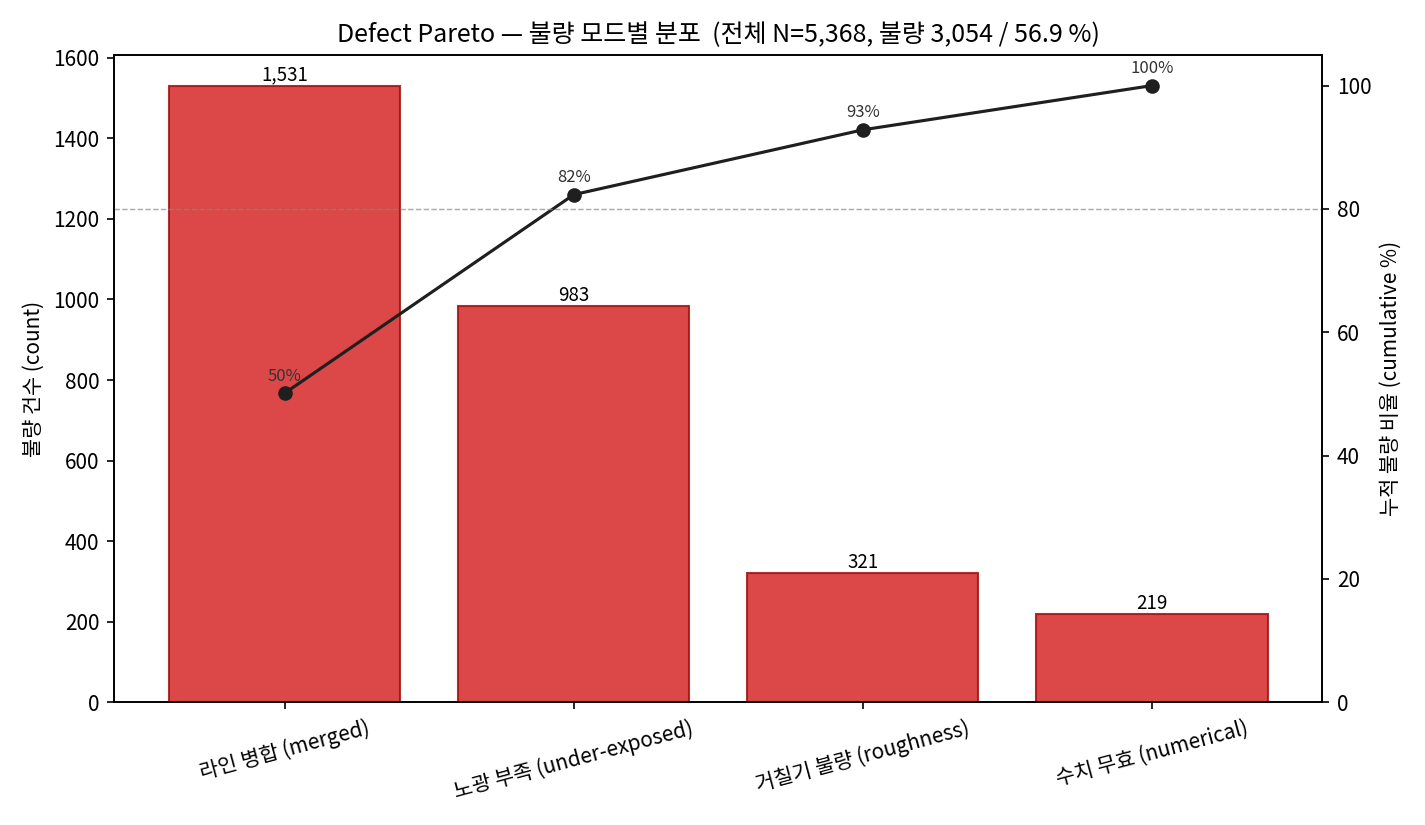
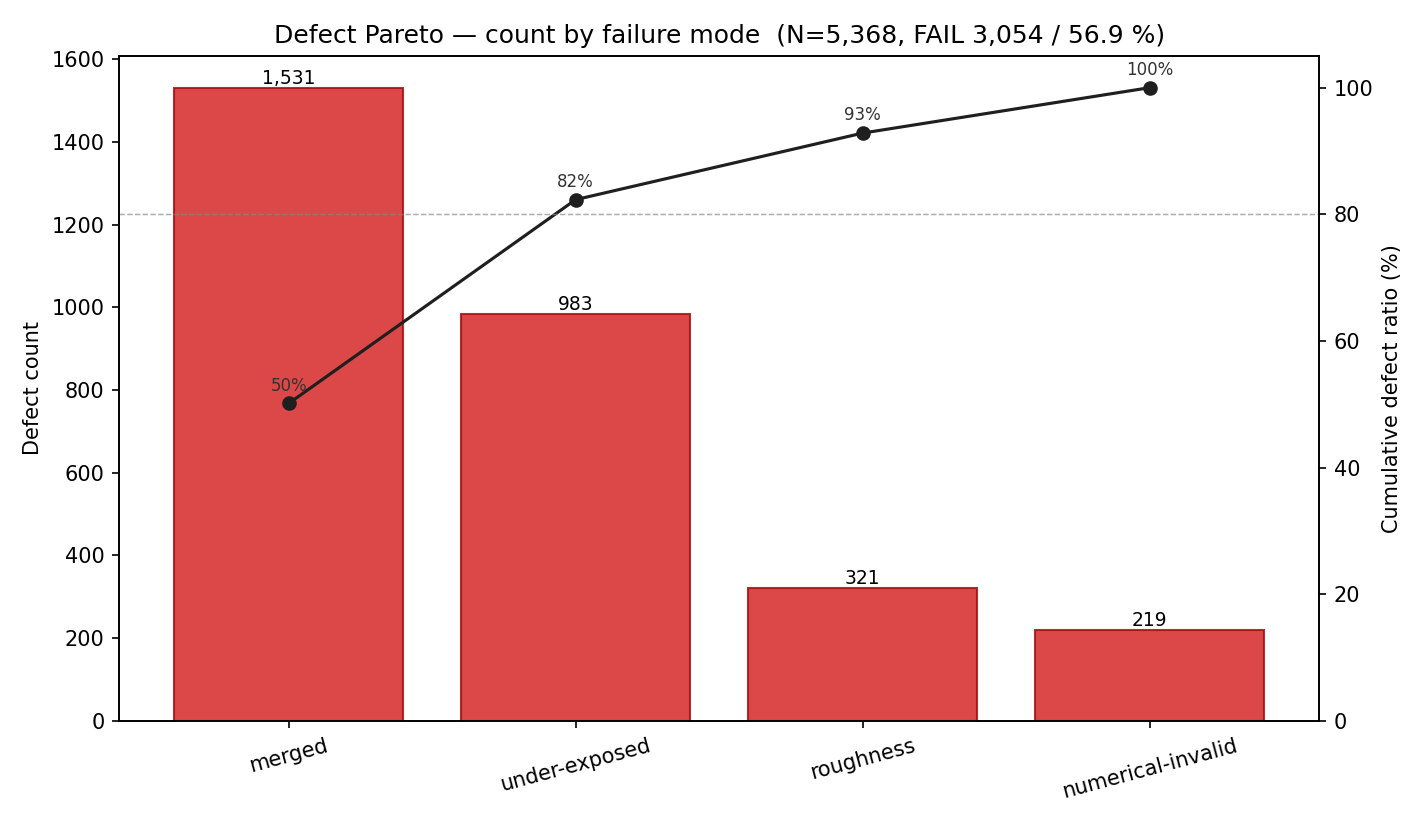
PEB v3 yield-view: convert all in-figure text to English
The yield-view dashboard previously rendered titles, tile labels, axis
captions and Pareto bar names in Korean. Convert the presentation layer
to English-only so figures are uniformly readable and the script no
longer depends on the Noto CJK font being available.

What
- run_yield_view.py
    * Drop Hangul font registration; rely on default matplotlib font.
    * BUCKET_KO removed; tiles now show "PASS" / "MARGINAL" / "FAIL".
    * DEFECT_KO -> DEFECT_LABEL with English-only names
      (merged, under-exposed, roughness, numerical-invalid).
    * Headline card: "Yield Summary" / "Yield (strict, PASS only)" /
      "Yield (inclusive, PASS + MARGINAL)" / "Surrogate risk metric" /
      "Defect leakage (false-PASS)" / "Missed count".
    * Pareto: "Defect count", "Cumulative defect ratio (%)",
      "count by failure mode".
    * Confusion: "Surrogate prediction" / "Actual label", subtitle
      "Risk cell: defects leaking through as PASS (dark red)".
    * Process window: "Process-window scatter -- PASS / MARGINAL /
      FAIL distribution".
    * Pitch view: "Distribution by pitch -- stacked PASS / MARGINAL /
      FAIL".
    * Print messages also English-only.
- Regenerated 5 PNGs under outputs/figures/04d_zone_evaluation/yield_view/
  using the same Stage 04C dataset + classifier and seed=13 split.

Numbers unchanged: N=5,368, PASS 1,728 / MARGINAL 586 / FAIL 3,054,
yield_strict 32.19 %, yield_inclusive 43.11 %, surrogate false-PASS
[…]

diff --git a/reaction_diffusion_peb_v3_screening/experiments/04d_zone_evaluation/run_yield_view.py b/reaction_diffusion_peb_v3_screening/experiments/04d_zone_evaluation/run_yield_view.py
@@ -2,15 +2,14 @@
 
 Produces a fab-style yield dashboard from the same Stage 04C dataset and
 classifier the operational-zone evaluation already uses. No retraining,
-no new FD. The point is purely visualisation: make 양품 / 불량 obvious at
-a glance the way a fab yield engineer expects to see it.
+no new FD. The point is purely visualisation: make PASS / FAIL obvious
+at a glance the way a fab yield engineer expects to see it.
 
-Class → yield bucket mapping (semiconductor convention):
+Class -> yield bucket mapping (semiconductor convention):
 
-    PASS      (양품)      robust_valid
-    MARGINAL  (한계품)    margin_risk
-    FAIL      (불량)      under_exposed, merged, roughness_degraded,
-                          numerical_invalid
+    PASS      robust_valid
+    MARGINAL  margin_risk
+    FAIL      under_exposed, merged, roughness_degraded, numerical_invalid
 
 Outputs (figures only, no model artefacts):
     outputs/figures/04d_zone_evaluation/yield_view/
@@ -50,14 +49,6 @@ from reaction_diffusion_peb_v3_screening.src.metrics_io import (
 
 V3_DIR = ROOT / "reaction_diffusion_peb_v3_screening"
 
-# Korean font — Noto Sans CJK KR ships in the NotoSansCJK-Regular.ttc on
-# this box. Register explicitly so Hangul renders even though matplotlib
-# enumerates the .ttc as "Noto Sans CJK JP".
-_CJK_TTC = Path("/usr/share/fonts/opentype/noto/NotoSansCJK-Regular.ttc")
-if _CJK_TTC.exists():
-    from matplotlib import font_manager
-    font_manager.fontManager.addfont(str(_CJK_TTC))
-    plt.rcParams["font.family"] = ["Noto Sans CJK JP", "DejaVu Sans"]
 plt.rcParams["axes.unicode_minus"] = False
 
 
@@ -66,16 +57,15 @@ MARGINAL_LABEL = "margin_risk"
 FAIL_LABELS    = ("under_exposed", "merged", "roughness_degraded", "numerical_invalid")
 
 BUCKETS = ["PASS", "MARGINAL", "FAIL"]
-BUCKET_KO = {"PASS": "양품", "MARGINAL": "한계", "FAIL": "불량"}
 BUCKET_COLOR = {"PASS": "#2ca02c", "MARGINAL": "#ffbf00", "FAIL": "#d62728"}
 
-DEFECT_KO = {
-    "under_exposed":      "노광 부족 (under-exposed)",
-    "merged":             "라인 병합 (merged)",
-    "roughness_degraded": "거칠기 불량 (roughness)",
-    "numerical_invalid":  "수치 무효 (numerical)",
-    "margin_risk":        "마진 부족 (margin-risk)",
-    "robust_valid":       "양품 (robust)",
+DEFECT_LABEL = {
+    "under_exposed":      "under-exposed",
+    "merged":             "merged",
+    "roughness_degraded": "roughness",
+    "numerical_invalid":  "numerical-invalid",
+    "margin_risk":        "margin-risk",
+    "robust_valid":       "robust",
 }
 
 
@@ -133,11 +123,12 @@ def plot_yield_summary(
 
     ax_title = fig.add_subplot(gs[0, :]); ax_title.axis("off")
     ax_title.text(0.5, 0.55,
-                  "PEB v3 — Yield Summary  (수율 요약)",
+                  "PEB v3 — Yield Summary",
                   ha="center", va="center", fontsize=20, fontweight="bold")
     ax_title.text(0.5, 0.05,
-                  f"전체 후보(샘플): N = {n_total:,}   "
-                  f"|   robust_valid = 양품, margin_risk = 한계, 그 외 = 불량",
+                  f"Total candidates: N = {n_total:,}   "
+                  f"|   PASS = robust_valid, MARGINAL = margin_risk, "
+                  f"FAIL = others",
                   ha="center", va="center", fontsize=10, color="#555")
 
     # Big-number tiles for each bucket
@@ -146,8 +137,8 @@ def plot_yield_summary(
         ax.add_patch(plt.Rectangle((0.02, 0.05), 0.96, 0.90,
                                    facecolor=BUCKET_COLOR[b], alpha=0.18,
                                    edgecolor=BUCKET_COLOR[b], linewidth=2))
-        ax.text(0.5, 0.78, f"{b}  ({BUCKET_KO[b]})",
-                ha="center", fontsize=13, fontweight="bold",
+        ax.text(0.5, 0.78, b,
+                ha="center", fontsize=14, fontweight="bold",
                 color=BUCKET_COLOR[b])
         cnt = bucket_counts[b]
         pct = 100.0 * cnt / max(n_total, 1)
@@ -159,7 +150,7 @@ def plot_yield_summary(
 
     # Bottom row: yield + risk metrics
     ax_y = fig.add_subplot(gs[2, 0]); ax_y.axis("off")
-    ax_y.text(0.05, 0.85, "Yield (양품률, strict)",
+    ax_y.text(0.05, 0.85, "Yield (strict, PASS only)",
               fontsize=11, color="#555")
     ax_y.text(0.05, 0.45, f"{yield_strict:.2f} %",
               fontsize=24, fontweight="bold", color="#2ca02c")
@@ -168,25 +159,25 @@ def plot_yield_summary(
               fontsize=9, color="#666")
 
     ax_y2 = fig.add_subplot(gs[2, 1]); ax_y2.axis("off")
-    ax_y2.text(0.05, 0.85, "Yield (PASS+MARGINAL, inclusive)",
+    ax_y2.text(0.05, 0.85, "Yield (inclusive, PASS + MARGINAL)",
                fontsize=11, color="#555")
     ax_y2.text(0.05, 0.45, f"{yield_inclusive:.2f} %",
                fontsize=24, fontweight="bold", color="#888c2c")
     ax_y2.text(0.05, 0.10,
-               f"한계품을 양품으로 간주했을 때",
+               f"treating MARGINAL as PASS",
                fontsize=9, color="#666")
 
     ax_r = fig.add_subplot(gs[2, 2]); ax_r.axis("off")
-    ax_r.text(0.05, 0.85, "Surrogate 위험 지표",
+    ax_r.text(0.05, 0.85, "Surrogate risk metric",
               fontsize=11, color="#555")
     ax_r.text(0.05, 0.55,
-              f"불량 누락률(false-PASS) : {false_pass_rate*100:.2f} %",
+              f"Defect leakage (false-PASS) : {false_pass_rate*100:.2f} %",
               fontsize=11, color="#d62728")
     ax_r.text(0.05, 0.30,
-              f"  test split, predicted=robust_valid 중 실제 불량",
+              f"  test split, actual FAIL among predicted=robust_valid",
               fontsize=8, color="#777")
     ax_r.text(0.05, 0.05,
-              f"누락 건수: {missed_defect_count}",
+              f"Missed count: {missed_defect_count}",
               fontsize=9, color="#444")
 
     fig.savefig(out_path, dpi=150, bbox_inches="tight")
@@ -200,7 +191,7 @@ def plot_defect_pareto(label_counts: dict[str, int], n_total: int,
                        out_path: Path) -> None:
     defects = {k: v for k, v in label_counts.items() if k in FAIL_LABELS}
     items = sorted(defects.items(), key=lambda kv: kv[1], reverse=True)
-    names = [DEFECT_KO.get(k, k) for k, _ in items]
+    names = [DEFECT_LABEL.get(k, k) for k, _ in items]
     counts = [v for _, v in items]
     n_defect = sum(counts)
     cum = np.cumsum(counts)
@@ -209,10 +200,10 @@ def plot_defect_pareto(label_counts: dict[str, int], n_total: int,
     fig, ax = plt.subplots(figsize=(9.5, 5.5))
     bars = ax.bar(names, counts, color="#d62728", alpha=0.85,
                   edgecolor="#a01010")
-    ax.set_ylabel("불량 건수 (count)")
+    ax.set_ylabel("Defect count")
     fail_pct = 100.0 * n_defect / max(n_total, 1)
-    ax.set_title(f"Defect Pareto — 불량 모드별 분포  "
-                 f"(전체 N={n_total:,}, 불량 {n_defect:,} / {fail_pct:.1f} %)")
+    ax.set_title(f"Defect Pareto — count by failure mode  "
+                 f"(N={n_total:,}, FAIL {n_defect:,} / {fail_pct:.1f} %)")
     ax.tick_params(axis="x", rotation=15)
 
     for b, v in zip(bars, counts):
@@ -221,7 +212,7 @@ def plot_defect_pareto(label_counts: dict[str, int], n_total: int,
 
     ax2 = ax.twinx()
     ax2.plot(names, cum_pct, "o-", color="#1f1f1f", lw=1.5)
-    ax2.set_ylabel("누적 불량 비율 (cumulative %)")
+    ax2.set_ylabel("Cumulative defect ratio (%)")
     ax2.set_ylim(0, 105)
     for x, y in zip(names, cum_pct):
         ax2.text(x, y + 2, f"{y:.0f}%", ha="center",
@@ -255,7 +246,7 @@ def plot_pass_fail_confusion(y_true_bucket: list[str], y_pred_bucket: list[str],
         ("PASS", "MARGINAL"):     "#fce6a3",
         ("MARGINAL", "PASS"):     "#cfe6c8",
         ("MARGINAL", "FAIL"):     "#f6b8b8",
-        ("FAIL", "PASS"):         "#7a0a0a",  # 가장 위험: 불량을 양품으로
+        ("FAIL", "PASS"):         "#7a0a0a",  # most dangerous: defect leaks as PASS
         ("FAIL", "MARGINAL"):     "#f6b8b8",
     }
     for i, t in enumerate(BUCKETS):
@@ -275,13 +266,13 @@ def plot_pass_fail_confusion(y_true_bucket: list[str], y_pred_bucket: list[str],
                     ha="center", va="center", fontsize=9, color=txt_color)
 
     ax.set_xticks(range(3))
-    ax.set_xticklabels([f"{b}\n({BUCKET_KO[b]})" for b in BUCKETS])
+    ax.set_xticklabels(BUCKETS)
     ax.set_yticks(range(3))
-    ax.set_yticklabels([f"{b}\n({BUCKET_KO[b]})" for b in BUCKETS])
-    ax.set_xlabel("Surrogate 예측 (predicted)")
-    ax.set_ylabel("실제 라벨 (actual)")
-    ax.set_title("PASS / MARGINAL / FAIL  (양품 / 한계 / 불량) — surrogate 판정 정합성\n"
-                 "← 위험: 불량을 양품으로 흘려보내는 경우 (어두운 빨강)",
+    ax.set_yticklabels(BUCKETS)
+    ax.set_xlabel("Surrogate prediction")
+    ax.set_ylabel("Actual label")
+    ax.set_title("PASS / MARGINAL / FAIL — surrogate prediction agreement\n"
+                 "Risk cell: defects leaking through as PASS (dark red)",
                  fontsize=11)
     ax.set_xlim(-0.5, 2.5); ax.set_ylim(2.5, -0.5)
     fig.tight_layout()
@@ -310,14 +301,14 @@ def plot_process_window(rows: list[dict], out_path: Path) -> None:
         m = (bk == b)
         ax.scatter(cd[m], mg[m], s=14, alpha=0.55,
                    color=BUCKET_COLOR[b],
-                   label=f"{b} ({BUCKET_KO[b]}) n={int(m.sum()):,}")
+                   label=f"{b} n={int(m.sum()):,}")
     ax.axhline(0.05, color="#2ca02c", lw=1.0, ls="--", alpha=0.7,
                label="margin = 0.05 (robust threshold)")
     ax.axhline(0.0, color="#d62728", lw=1.0, ls=":", alpha=0.7,
                label="margin = 0 (process gate)")
     ax.set_xlabel("CD_locked_nm  (locked critical dimension)")
     ax.set_ylabel("P_line_margin")
-    ax.set_title("Process-window 산점도 — 양품 / 한계 / 불량 분포")
+    ax.set_title("Process-window scatter — PASS / MARGINAL / FAIL distribution")
     ax.legend(loc="lower right", fontsize=10, framealpha=0.9)
     ax.grid(True, alpha=0.25)
     fig.tight_layout()
@@ -350,17 +341,17 @@ def plot_yield_by_pitch(rows: list[dict], out_path: Path) -> None:
 
     fig, ax = plt.subplots(figsize=(9.0, 5.5))
     x = np.arange(len(pitches))
-    ax.bar(x, pass_cnt, color=BUCKET_COLOR["PASS"], alpha=0.85, label="PASS (양품)")
+    ax.bar(x, pass_cnt, color=BUCKET_COLOR["PASS"], alpha=0.85, label="PASS")
     ax.bar(x, marg_cnt, bottom=pass_cnt,
-           color=BUCKET_COLOR["MARGINAL"], alpha=0.85, label="MARGINAL (한계)")
+           color=BUCKET_COLOR["MARGINAL"], alpha=0.85, label="MARGINAL")
     bottom2 = [pc + mc for pc, mc in zip(pass_cnt, marg_cnt)]
     ax.bar(x, fail_cnt, bottom=bottom2,
-           color=BUCKET_COLOR["FAIL"], alpha=0.85, label="FAIL (불량)")
+           color=BUCKET_COLOR["FAIL"], alpha=0.85, label="FAIL")
     ax.set_xticks(x)
     ax.set_xticklabels([f"{int(p)} nm\n(N={t:,})" for p, t in zip(pitches, totals)])
     ax.set_xlabel("pitch_nm")
     ax.set_ylabel("count")
-    ax.set_title("Pitch별 분포 — stacked PASS / MARGINAL / FAIL")
+    ax.set_title("Distribution by pitch — stacked PASS / MARGINAL / FAIL")
     ax.legend(loc="upper right", fontsize=9)
 
     ax2 = ax.twinx()
@@ -399,7 +390,7 @@ def main() -> int:
     bucket_counts = Counter(label_to_bucket(r["label"]) for r in rows)
     print(f"yield-view — dataset rows: {n_total}")
     for b in BUCKETS:
-        print(f"  {b:<10} ({BUCKET_KO[b]}) {bucket_counts.get(b, 0):,}")
+        print(f"  {b:<10} {bucket_counts.get(b, 0):,}")
     for k in sorted(label_counts):
         print(f"    {k:<22} {label_counts[k]:,}")
 
@@ -416,7 +407,7 @@ def main() -> int:
     false_pass_rate = (n_missed / n_pred_pass) if n_pred_pass > 0 else float("nan")
     print(f"\ntest split: {len(test_rows)} rows  "
           f"|  predicted=robust_valid: {n_pred_pass}  "
-          f"|  실제 불량(누락): {n_missed}  "
+          f"|  actual FAIL (missed): {n_missed}  "
           f"|  false-PASS rate: {false_pass_rate*100:.2f} %")
 
     fig_dir = V3_DIR / "outputs" / "figures" / args.tag

diff --git a/reaction_diffusion_peb_v3_screening/README.md b/reaction_diffusion_peb_v3_screening/README.md
@@ -592,11 +592,10 @@ remains `false`); v2's frozen nominal OP is unchanged.
 ## Yield-management view (presentation layer)
 
 Stage 04D's evaluation figures use internal label names (`robust_valid`,
-`merged`, …) that are not friendly for fab-style 양품/불량 inspection.
+`merged`, …) that are not friendly for fab-style PASS/FAIL inspection.
 A separate presentation-only script renders the same Stage 04C dataset
-into yield-engineering vocabulary (PASS / MARGINAL / FAIL =
-양품 / 한계 / 불량), with colour-coded tiles, defect Pareto, and a
-process-window scatter:
+into yield-engineering vocabulary (PASS / MARGINAL / FAIL), with
+colour-coded tiles, defect Pareto, and a process-window scatter:
 
 ```bash
 python -m reaction_diffusion_peb_v3_screening.experiments.04d_zone_evaluation.run_yield_view
@@ -608,7 +607,7 @@ Outputs (no model retraining, no new FD):
 outputs/figures/04d_zone_evaluation/yield_view/
   01_yield_summary.png        big-number tile card (PASS / MARGINAL / FAIL)
   02_defect_pareto.png        defect mode bars + cumulative line
-  03_pass_fail_confusion.png  3×3 colour-coded confusion (위험 셀 강조)
+  03_pass_fail_confusion.png  3x3 colour-coded confusion (FAIL->PASS cell highlighted)
   04_process_window.png       CD_locked vs P_line_margin scatter
   05_yield_by_pitch.png       stacked bars + yield-line per pitch_nm
   yield_summary.json          machine-readable counts + rates
